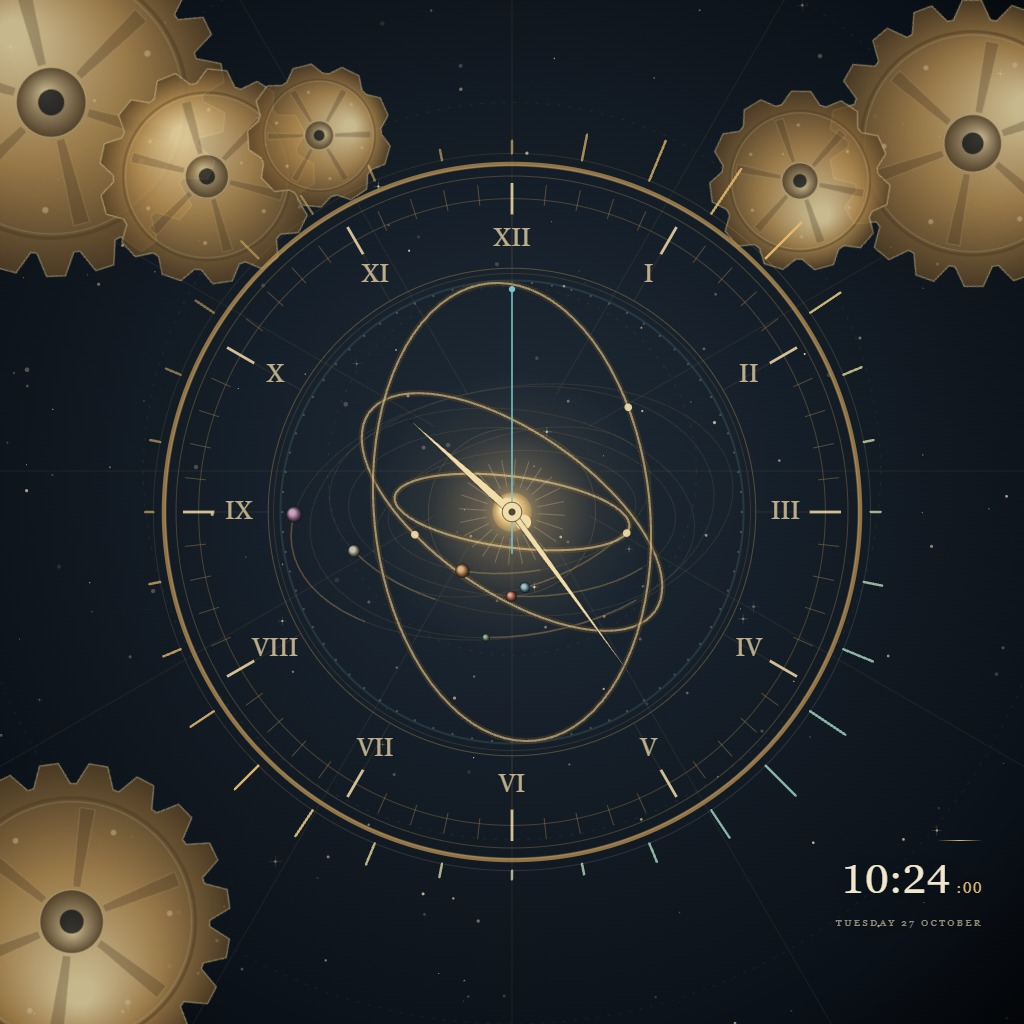
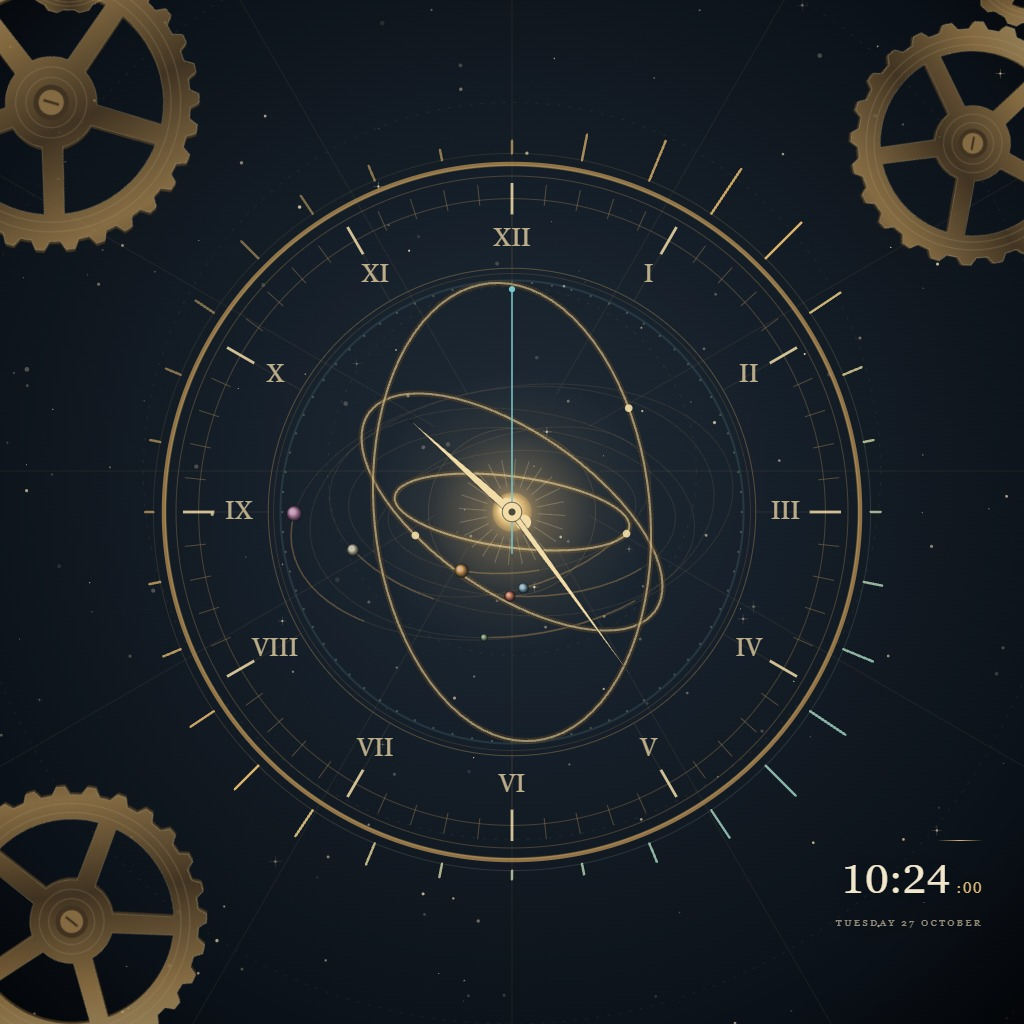
gears

Changed region(s): [[0.0, 0.0, 0.4062, 0.2812], [0.6875, 0.0, 1.0, 0.2812], [0.0, 0.75, 0.25, 1.0]]

diff --git a/astrarium/src/render/GearSystem.ts b/astrarium/src/render/GearSystem.ts
@@ -42,90 +42,78 @@ export class GearSystem {
     if (!ctx) return canvas;
     ctx.translate(size / 2, size / 2);
 
-    const teeth = Math.max(9, Math.round(radius / 8));
-    const rootRadius = radius * 0.87;
-    const path = new Path2D();
+    const teeth = Math.max(12, Math.round(radius / 5));
+    const rootRadius = radius * 0.94;
+    const pitch = TAU / teeth;
+    const outline = new Path2D();
+    outline.moveTo(rootRadius, 0);
     for (let i = 0; i < teeth; i++) {
-      const a0 = i / teeth * TAU;
-      const a1 = (i + 0.24) / teeth * TAU;
-      const a2 = (i + 0.62) / teeth * TAU;
-      const a3 = (i + 0.86) / teeth * TAU;
-      if (i === 0) path.moveTo(Math.cos(a0) * rootRadius, Math.sin(a0) * rootRadius);
-      else path.lineTo(Math.cos(a0) * rootRadius, Math.sin(a0) * rootRadius);
-      path.lineTo(Math.cos(a1) * radius, Math.sin(a1) * radius);
-      path.lineTo(Math.cos(a2) * radius, Math.sin(a2) * radius);
-      path.lineTo(Math.cos(a3) * rootRadius, Math.sin(a3) * rootRadius);
+      const angle = i * pitch;
+      outline.arc(0, 0, rootRadius, angle, angle + pitch * 0.19);
+      outline.lineTo(radius * Math.cos(angle + pitch * 0.36), radius * Math.sin(angle + pitch * 0.36));
+      outline.arc(0, 0, radius, angle + pitch * 0.36, angle + pitch * 0.64);
+      outline.lineTo(rootRadius * Math.cos(angle + pitch * 0.81), rootRadius * Math.sin(angle + pitch * 0.81));
+      outline.arc(0, 0, rootRadius, angle + pitch * 0.81, angle + pitch);
     }
-    path.closePath();
+    outline.closePath();
 
-    const gradient = ctx.createRadialGradient(-radius * 0.32, -radius * 0.32, radius * 0.08, 0, 0, radius);
-    gradient.addColorStop(0, palette.brassLight);
-    gradient.addColorStop(0.5, palette.brass);
-    gradient.addColorStop(1, palette.brassDark);
-    ctx.fillStyle = gradient;
-    ctx.fill(path);
-    ctx.globalAlpha = 0.55;
+    // Open sectors leave five tapered spokes and let the star field show through.
+    const openings = new Path2D();
+    const spokes = 5;
+    for (let i = 0; i < spokes; i++) {
+      const angle = i * TAU / spokes;
+      const end = angle + TAU / spokes;
+      const outer = radius * 0.76;
+      const inner = radius * 0.31;
+      openings.moveTo(outer * Math.cos(angle + 0.09), outer * Math.sin(angle + 0.09));
+      openings.arc(0, 0, outer, angle + 0.09, end - 0.09);
+      openings.arc(0, 0, inner, end - 0.23, angle + 0.23, true);
+      openings.closePath();
+    }
+    const wheel = new Path2D(outline);
+    wheel.addPath(openings);
+
+    const metal = ctx.createLinearGradient(-radius, -radius, radius, radius);
+    metal.addColorStop(0, palette.brassLight);
+    metal.addColorStop(0.32, palette.brass);
+    metal.addColorStop(0.57, palette.brassDark);
+    metal.addColorStop(0.82, palette.brass);
+    metal.addColorStop(1, palette.brassDark);
+    ctx.fillStyle = palette.brassDark;
+    ctx.save();
+    ctx.translate(1, Math.max(1, radius * 0.018));
+    ctx.fill(wheel, 'evenodd');
+    ctx.restore();
+    ctx.fillStyle = metal;
+    ctx.fill(wheel, 'evenodd');
+
+    ctx.globalAlpha = 0.58;
     ctx.strokeStyle = palette.brassLight;
-    ctx.lineWidth = 1.2;
-    ctx.stroke(path);
-
-    ctx.globalAlpha = 0.5;
-    ctx.strokeStyle = palette.brassDark;
-    ctx.lineWidth = Math.max(1, radius * 0.02);
-    ctx.beginPath();
-    ctx.arc(0, 0, radius * 0.78, 0, TAU);
-    ctx.stroke();
-    ctx.globalAlpha = 0.28;
-    ctx.strokeStyle = palette.brassLight;
-    ctx.lineWidth = 1;
-    ctx.beginPath();
-    ctx.arc(0, 0, radius * 0.755, 0, TAU);
-    ctx.stroke();
-
-    for (let i = 0; i < 6; i++) {
-      const angle = i / 6 * TAU;
-      const half = 0.11;
+    ctx.lineWidth = 0.8;
+    ctx.stroke(outline);
+    ctx.globalAlpha = 0.36;
+    ctx.stroke(openings);
+    for (const ring of [0.81, 0.875, 0.24, 0.17]) {
       ctx.beginPath();
-      ctx.moveTo(Math.cos(angle - half) * radius * 0.22, Math.sin(angle - half) * radius * 0.22);
-      ctx.lineTo(Math.cos(angle - half * 0.6) * radius * 0.72, Math.sin(angle - half * 0.6) * radius * 0.72);
-      ctx.lineTo(Math.cos(angle + half * 0.6) * radius * 0.72, Math.sin(angle + half * 0.6) * radius * 0.72);
-      ctx.lineTo(Math.cos(angle + half) * radius * 0.22, Math.sin(angle + half) * radius * 0.22);
-      ctx.closePath();
-      ctx.globalAlpha = 0.32;
-      ctx.fillStyle = palette.brassDark;
-      ctx.fill();
-      ctx.globalAlpha = 0.22;
-      ctx.strokeStyle = palette.brassLight;
-      ctx.lineWidth = 1;
+      ctx.arc(0, 0, radius * ring, 0, TAU);
       ctx.stroke();
     }
 
-    ctx.globalAlpha = 0.5;
-    ctx.fillStyle = palette.brassLight;
-    for (let i = 0; i < 6; i++) {
-      const angle = i / 6 * TAU + 0.3;
-      ctx.beginPath();
-      ctx.arc(Math.cos(angle) * radius * 0.62, Math.sin(angle) * radius * 0.62, Math.max(1.5, radius * 0.018), 0, TAU);
-      ctx.fill();
-    }
-
     ctx.globalAlpha = 1;
-    const hub = ctx.createRadialGradient(-radius * 0.05, -radius * 0.05, 0, 0, 0, radius * 0.22);
-    hub.addColorStop(0, palette.brassLight);
-    hub.addColorStop(1, palette.brassDark);
-    ctx.fillStyle = hub;
+    ctx.fillStyle = palette.brassDark;
     ctx.beginPath();
-    ctx.arc(0, 0, radius * 0.2, 0, TAU);
+    ctx.arc(0, 0, radius * 0.12, 0, TAU);
     ctx.fill();
-    ctx.globalAlpha = 0.6;
-    ctx.strokeStyle = palette.brassLight;
-    ctx.lineWidth = 1;
+    ctx.fillStyle = palette.brass;
+    ctx.beginPath();
+    ctx.arc(0, 0, radius * 0.085, 0, TAU);
+    ctx.fill();
+    ctx.strokeStyle = palette.brassDark;
+    ctx.lineWidth = Math.max(1, radius * 0.018);
+    ctx.beginPath();
+    ctx.moveTo(-radius * 0.055, 0);
+    ctx.lineTo(radius * 0.055, 0);
     ctx.stroke();
-    ctx.globalAlpha = 1;
-    ctx.fillStyle = 'rgba(6, 10, 16, 0.75)';
-    ctx.beginPath();
-    ctx.arc(0, 0, radius * 0.075, 0, TAU);
-    ctx.fill();
 
     return canvas;
   }
@@ -163,11 +151,13 @@ export class GearSystem {
       let previousSpeed = 0;
 
       for (let j = 0; j < layout.radii.length && placed < count; j++) {
-        const radius = Math.min(min * layout.radii[j], 300);
+        const radius = Math.min(min * layout.radii[j] * 0.85, 255);
+        const previous = j > 0 ? this.gears[this.gears.length - 1] : undefined;
+        const spacing = previousRadius + radius + 3;
         if (j > 0) {
           const angle = layout.angle + Math.sin(j * 1.7 + i) * 0.18;
-          x += (previousRadius + radius) * Math.cos(angle);
-          y += (previousRadius + radius) * Math.sin(angle);
+          x += spacing * Math.cos(angle);
+          y += spacing * Math.sin(angle);
         }
         const speed = j === 0
           ? (i % 2 === 0 ? 1 : -1) * 0.16 * (0.17 / layout.radii[0])
@@ -180,6 +170,17 @@ export class GearSystem {
           const scale = clearance / distance;
           x = width * 0.5 + dx * scale;
           y = height * 0.5 + dy * scale;
+        }
+        if (previous && Math.hypot(x - previous.x, y - previous.y) < spacing) {
+          // Continue outward along the clearance ray until the wheel clears its neighbor.
+          const ux = dx / distance;
+          const uy = dy / distance;
+          const ox = x - previous.x;
+          const oy = y - previous.y;
+          const along = ox * ux + oy * uy;
+          const push = Math.sqrt(along * along + spacing * spacing - ox * ox - oy * oy) - along;
+          x += ux * push;
+          y += uy * push;
         }
         this.gears.push({
           x,
@@ -210,7 +211,7 @@ export class GearSystem {
     const energy = settings.audioReactive && audio.hasAudio ? audio.overall : 0;
     const beat = settings.audioReactive && audio.hasAudio ? audio.beatPulse : 0;
     ctx.save();
-    ctx.globalAlpha = clamp(0.76 + energy * 0.16 + beat * 0.1, 0, 1);
+    ctx.globalAlpha = clamp(0.64 + energy * 0.16 + beat * 0.1, 0, 1);
     for (const gear of this.gears) {
       ctx.save();
       ctx.translate(gear.x, gear.y);
